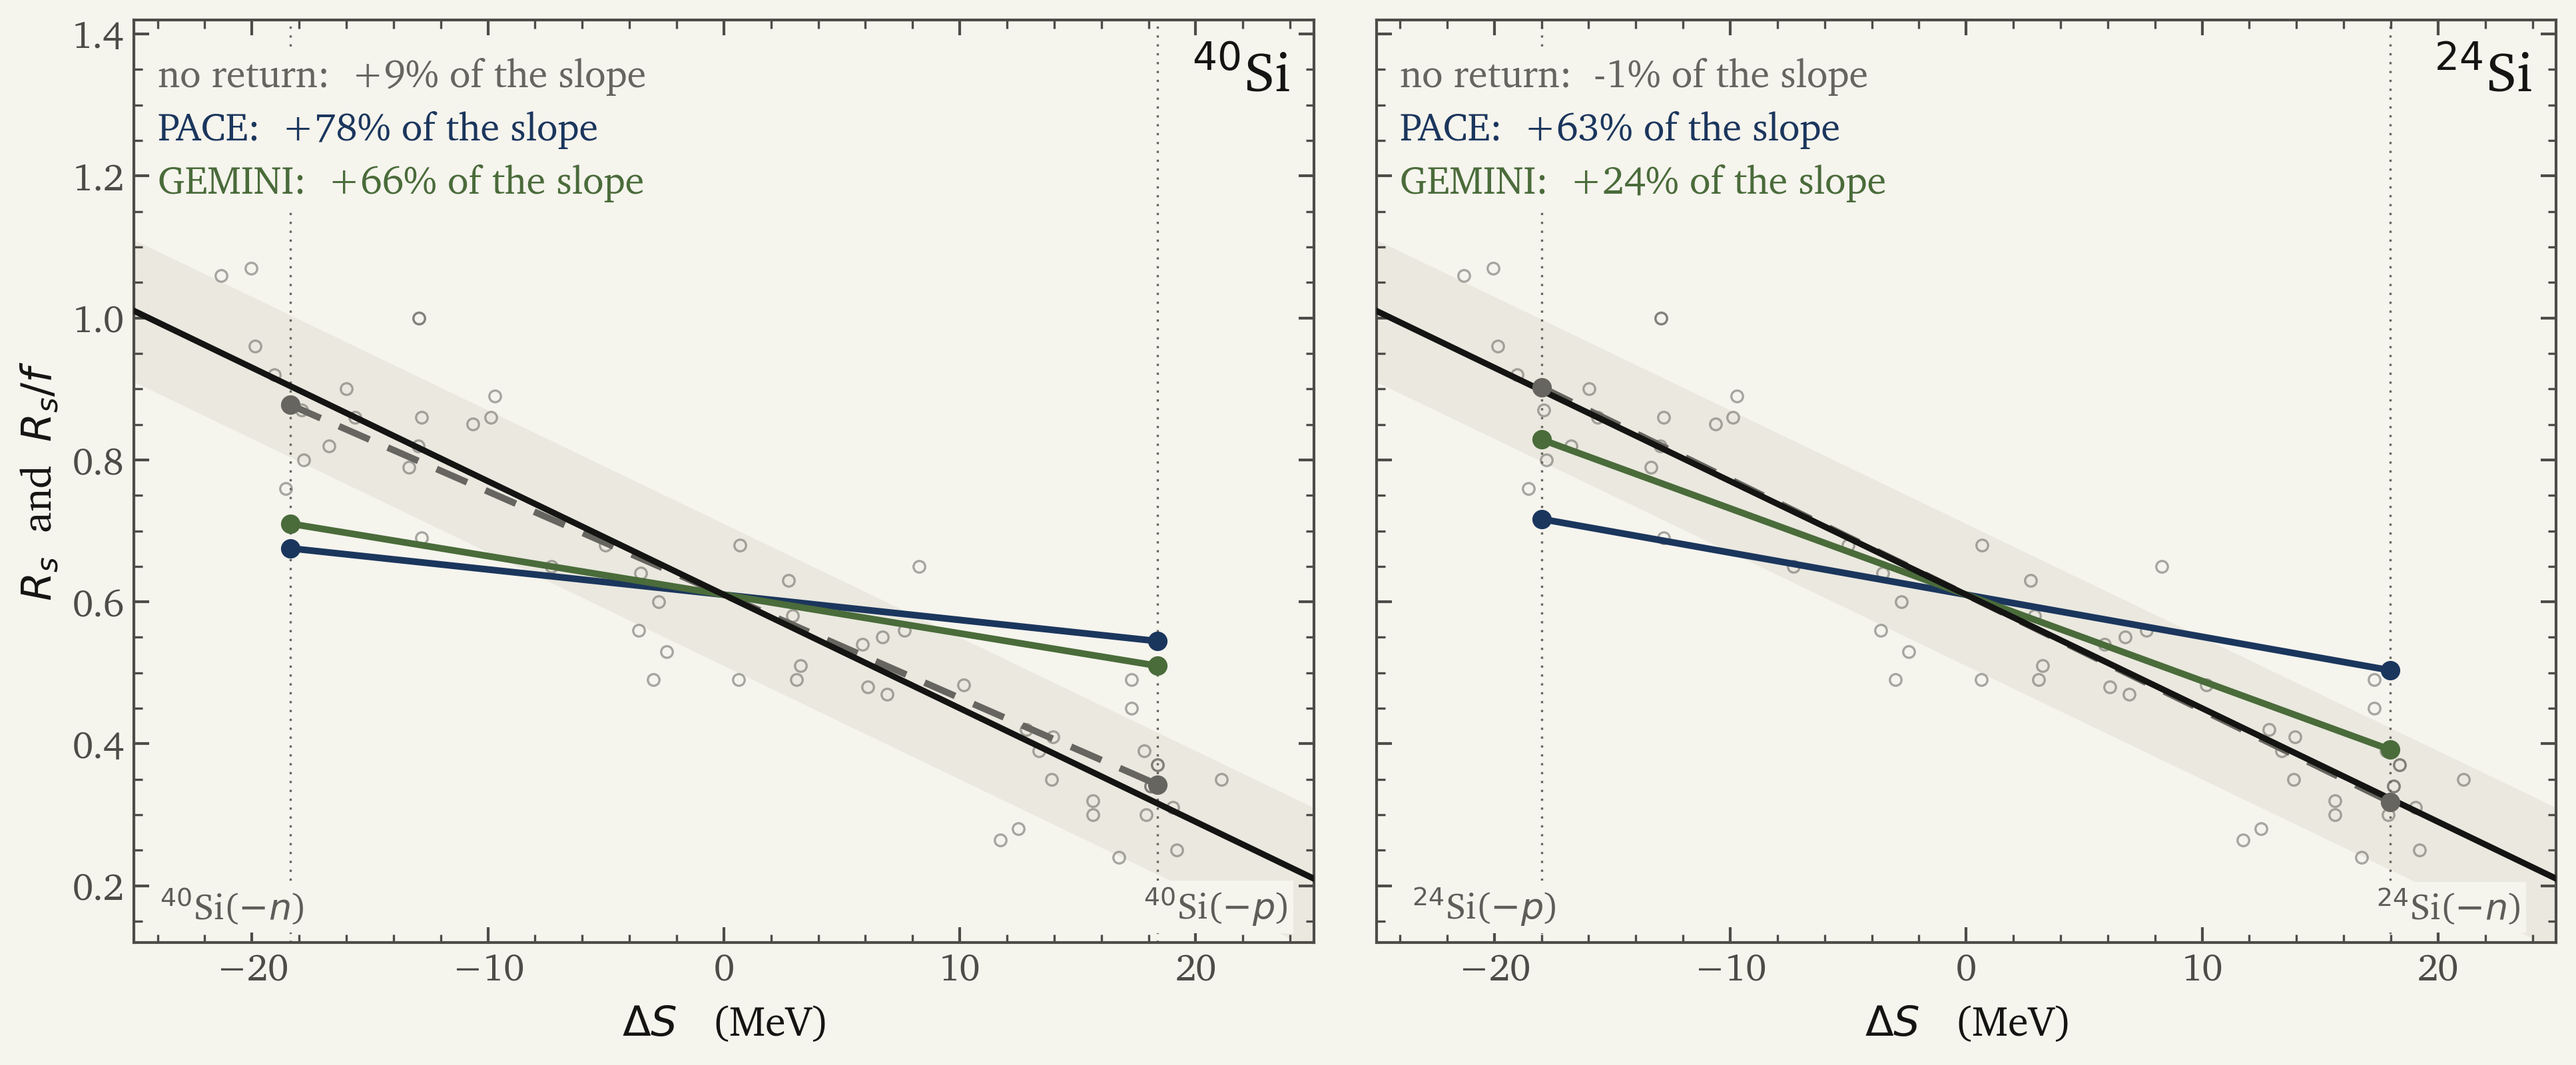
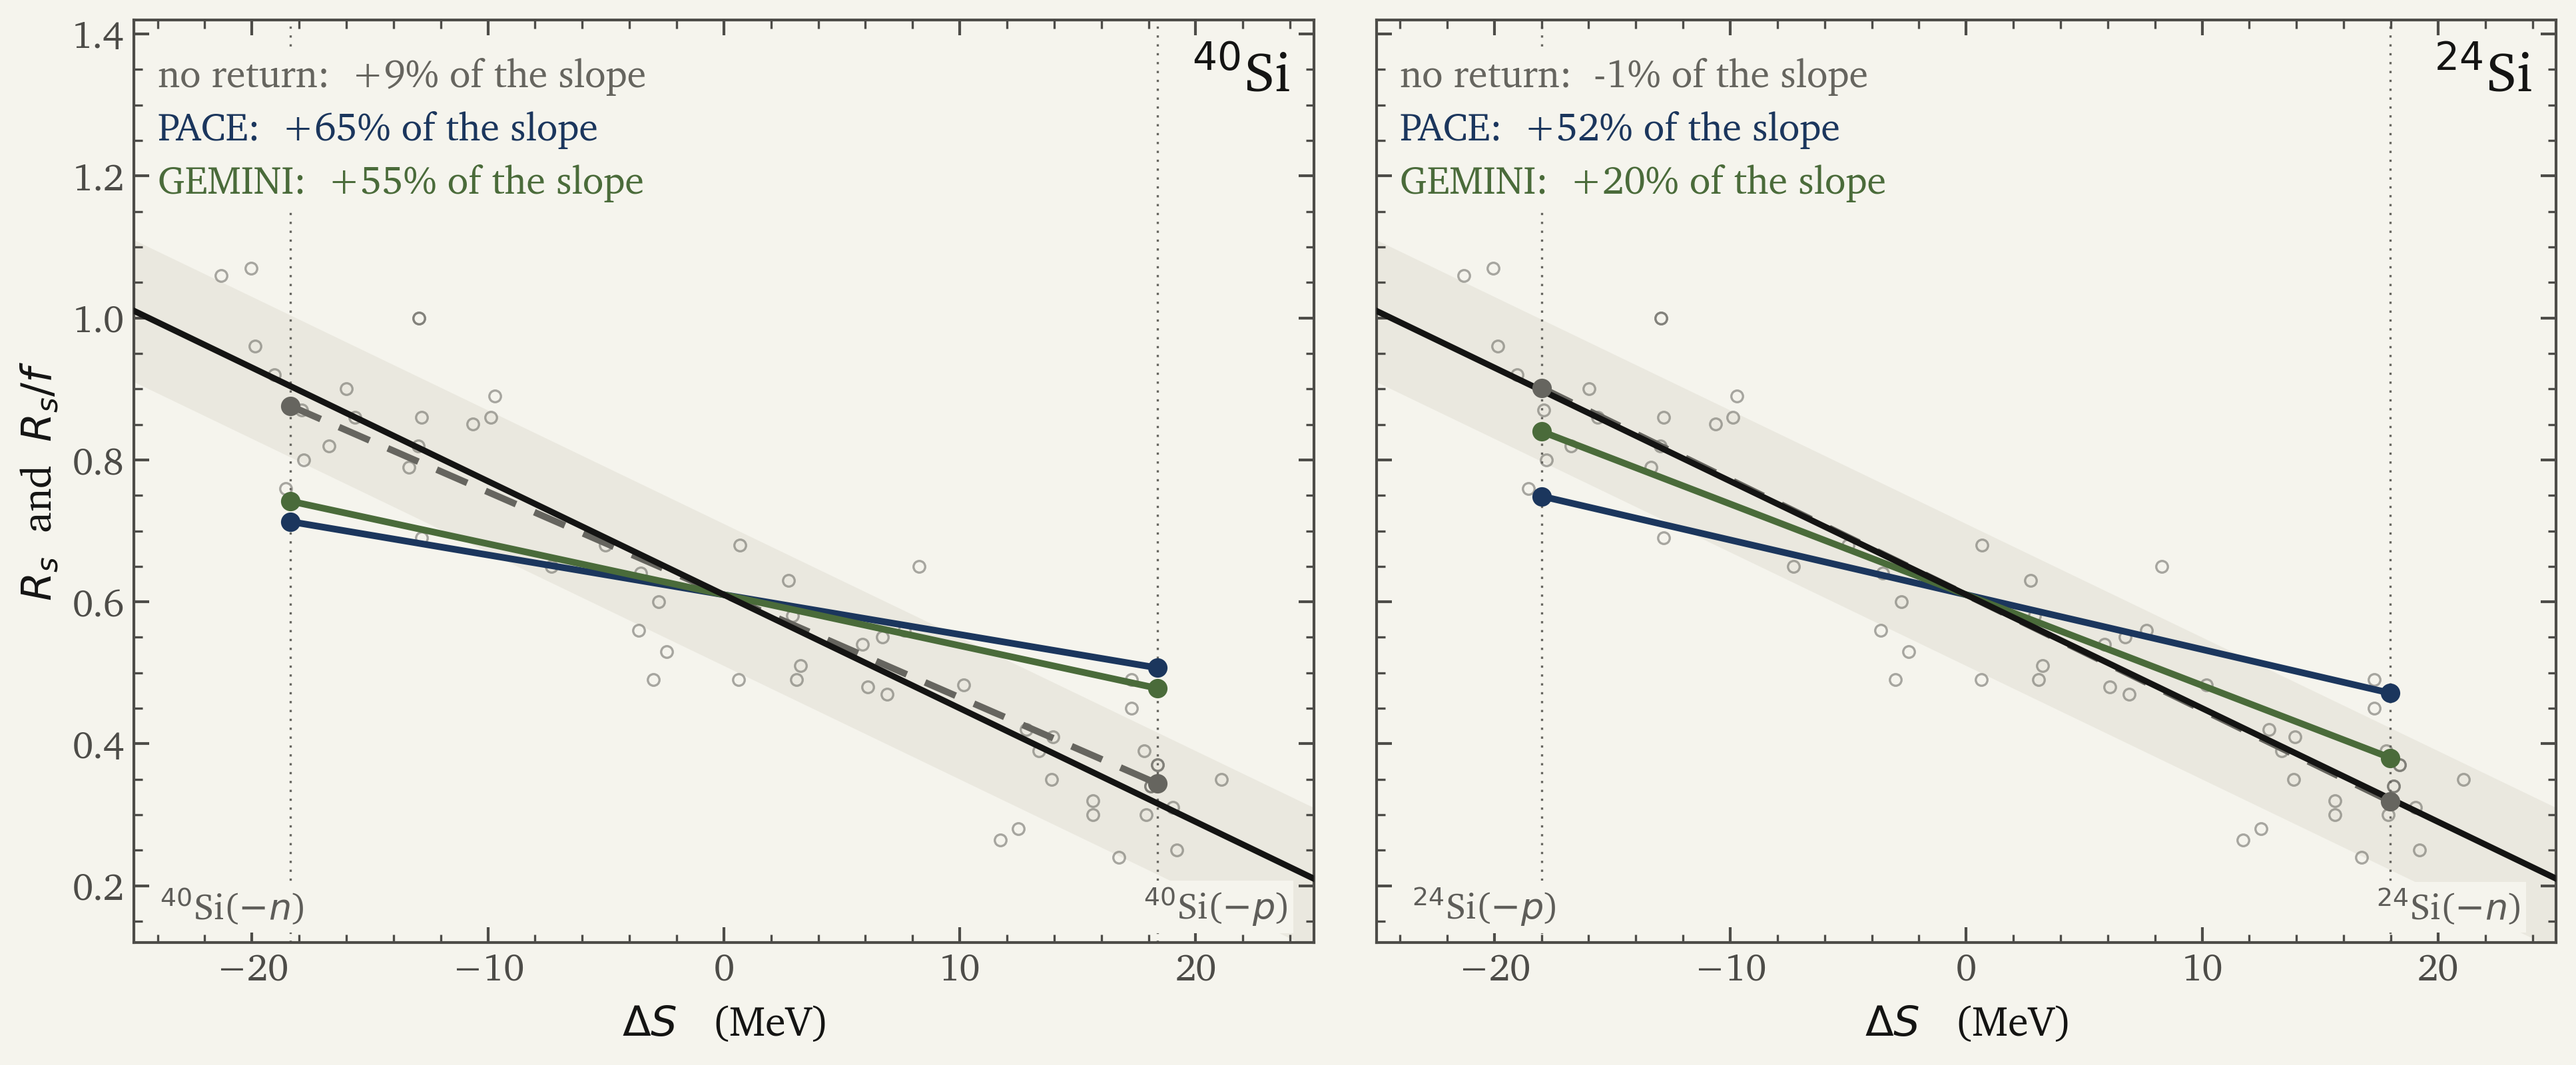
qfs-rb-2026: placement and diffraction from Phase 1b / f_dif; Safari hidden-mount fix
- exact-statement slide: P is target ground + residue bound; U^(nonadd) holds
  stripping core destruction, U^(pol) the diffractive one; yield is a Q-space split
- new diffraction slide (f_str vs f_dif per channel; M5 overstates by 15-20%)
- return slide and figure on the f_dif channel factors
- ExperimentScene: ResizeObserver before anything that can throw; glass chips
  installed only at nonzero size (Safari mounted the slide hidden, width 0)

diff --git a/qfs-rb-2026/components/ExperimentScene.vue b/qfs-rb-2026/components/ExperimentScene.vue
@@ -43,8 +43,15 @@ onMounted(async () => {
   key.shadow.mapSize.set(2048, 2048); Object.assign(key.shadow.camera, { left: -12, right: 12, top: 8, bottom: -8, near: 1, far: 40 })
   key.shadow.bias = -0.0004; key.shadow.normalBias = 0.02; key.shadow.radius = 6; scene.add(key)
 
-  const cam = new THREE.PerspectiveCamera(28, W / H, 0.1, 200)
+  const cam = new THREE.PerspectiveCamera(28, W > 0 ? W / H : 16 / 9, 0.1, 200)
   cam.position.set(2.3, 3.8, 12.2); cam.lookAt(2.2, 0.85, 0)
+  // Registered before anything that can throw. A slide pre-mounted while hidden (Safari, reached by paging)
+  // has clientWidth 0 here; the observer fixes the size, the aspect and the glass chips once it is shown.
+  ro = new ResizeObserver(() => {
+    const w = el.clientWidth; if (w === 0) return
+    renderer.setSize(w, props.height); cam.aspect = w / props.height; cam.updateProjectionMatrix(); installGlass()
+  })
+  ro.observe(el)
 
   const phys = (color, o = {}) => new THREE.MeshPhysicalMaterial({ color, roughness: 0.4, metalness: 0.0, ...o })
   const M = {
@@ -280,19 +287,23 @@ onMounted(async () => {
   }
   loop()
 
-  // liquid-glass chips: one displacement map per label, generated at its rendered size
   await nextTick()
-  Object.entries(L).forEach(([k, r]) => {
-    const e = r.value; if (!e) return
-    const { width, height } = e.getBoundingClientRect()
-    const id = `lg-${uid}-${k}`
-    installGlassFilter({ id, width, height, radius: Math.min(14, height / 2), bevel: 8, scale: 8 })
-    e.style.setProperty('--glass-url', `url(#${id})`)
-  })
-
-  ro = new ResizeObserver(() => { const w = el.clientWidth; renderer.setSize(w, props.height); cam.aspect = w / props.height; cam.updateProjectionMatrix() })
-  ro.observe(el)
+  installGlass()
 })
+// liquid-glass chips: one displacement map per label, generated at its rendered size. Skipped while the label has
+// no size (hidden slide) and retried from the resize observer; a failure on one chip leaves it plain blur, no more.
+const glassDone = new Set()
+function installGlass() {
+  Object.entries(L).forEach(([k, r]) => {
+    const e = r.value; if (!e || glassDone.has(k)) return
+    const { width, height } = e.getBoundingClientRect(); if (width < 1 || height < 1) return
+    const id = `lg-${uid}-${k}`
+    try {
+      installGlassFilter({ id, width, height, radius: Math.min(14, height / 2), bevel: 8, scale: 8 })
+      e.style.setProperty('--glass-url', `url(#${id})`); glassDone.add(k)
+    } catch (err) { console.warn('glass chip', k, err) }
+  })
+}
 onBeforeUnmount(() => {
   cancelAnimationFrame(raf); ro && ro.disconnect(); pmrem && pmrem.dispose(); releaseRenderer(renderer)
   Object.keys(L).forEach((k) => document.getElementById(`lg-${uid}-${k}`)?.closest('svg')?.remove())

diff --git a/qfs-rb-2026/figures/make_rs_return.py b/qfs-rb-2026/figures/make_rs_return.py
@@ -5,7 +5,8 @@ QFS-RB 2026, "R_s with the compound-nucleus return".
 Claim: under M1 the correction tilts the Delta S trend of both pairs toward flat once the
 compound-nucleus return is included; without it 24Si barely moves.
 
-Data: threebodyreaction calc/plan_d/D3_results.md, sections D3.4 and D3.5, MR07a only.
+Data: threebodyreaction calc/plan_d/D3_results.md, f_dif section (2026-09-24), MR07a only: channel factors
+f = eta f_str + (1 - eta) f_dif with diffraction computed, not scaled like stripping (GR23's M5).
 Line, band: Tostevin and Gade, PRC 103, 054610 (2021), Eq. (2) and the half-width 0.1 scatter.
 Points: tg2021_points.dat (vector-operator extraction, validated; no error bars).
 Chords: R_s/f at the pair's two channels, anchored at Delta S = 0 because only the tilt is the claim.
@@ -15,9 +16,9 @@ import matplotlib.pyplot as plt
 from kami_style import *
 
 R0, M0, HALF = 0.61, -0.016, 0.10
-SYS = {r"$^{40}$Si": dict(ds=18.38, fd=0.3062, fw={"no return": 0.5770, "PACE": 0.7777, "GEMINI": 0.7338},
+SYS = {r"$^{40}$Si": dict(ds=18.38, fd=0.3366, fw={"no return": 0.6146, "PACE": 0.7898, "GEMINI": 0.7519},
                             lab=(r"$-n$", r"$-p$")),
-       r"$^{24}$Si": dict(ds=17.984, fd=0.3594, fw={"no return": 0.6063, "PACE": 0.8089, "GEMINI": 0.6731},
+       r"$^{24}$Si": dict(ds=17.984, fd=0.3918, fw={"no return": 0.6390, "PACE": 0.8162, "GEMINI": 0.7001},
                             lab=(r"$-p$", r"$-n$"))}
 STY = {"no return": (STONE, (0, (5, 3))), "PACE": (INK_BLUE, "-"), "GEMINI": (MOSS, "-")}
 P = np.genfromtxt("tg2021_points.dat", dtype=None, encoding="utf-8", names=["ds", "rs", "marker", "series"])

diff --git a/qfs-rb-2026/slides.md b/qfs-rb-2026/slides.md
@@ -228,21 +228,27 @@ H<sub>eff</sub> = H<sub>3</sub><sup>(0)</sup>
 </div>
 
 <div class="text-center mt-3" style="color: var(--stone);">
-exact projection onto what is measured: the target excited, the residue bound
+exact projection: target in its ground state, residue bound; stripping leaves through target excitation
 </div>
 
-<div class="grid grid-cols-2 gap-8 mt-10">
+<div class="grid grid-cols-2 gap-8 mt-8">
 <div class="kami-card">
 <span class="ui-label">U<sup>(nonadd)</sup></span><br>
-what the target does to the <b>pair</b> beyond what it does to each separately
+eliminates <b>target excitation</b>. Inside it, after x has excited the target, the x-b coupling
+still acts: this is where b is disturbed <b>in stripping</b>.
 </div>
 <div class="kami-card">
 <span class="ui-label">U<sup>(pol)</sup></span><br>
-what the pair does to <b>itself</b> once b may leave its ground state
+eliminates <b>excited or broken b</b> with the target in its ground state: the projectile's own
+structure, and b disturbed <b>in diffraction</b>.
 </div>
 </div>
 
-<div class="takeaway mt-8">
+<div class="text-center mt-5" style="color: var(--stone);">
+Neither operator's absorption is the measured yield: the stripped flux splits afterwards into b bound and b lost.
+</div>
+
+<div class="takeaway mt-6">
 Standard practice keeps H<sub>3</sub><sup>(0)</sup> and deletes both. That deletion <b>is</b> the spectator assumption.
 </div>
 
@@ -322,6 +328,44 @@ Six out of six, over three independent absorptions including a microscopic one. 
 
 ---
 
+# Diffraction: b is lost there too, but less
+
+<div class="grid grid-cols-5 gap-8 mt-6">
+<div class="col-span-3">
+
+| channel | f, stripping | f, diffraction |
+|---|---|---|
+| <sup>40</sup>Si deep (&minus;p) | 0.23 to 0.33 | 0.43 to 0.49 |
+| <sup>40</sup>Si weak (&minus;n) | 0.58 to 0.68 | 0.74 to 0.77 |
+| <sup>24</sup>Si deep (&minus;n) | 0.32 to 0.46 | 0.52 to 0.58 |
+| <sup>24</sup>Si weak (&minus;p) | 0.56 to 0.65 | 0.75 to 0.76 |
+
+<div class="fig-caption">MR07a, MR07b and WLH absorptions; no return.</div>
+
+</div>
+<div class="col-span-2 pt-2">
+
+<div class="box-idea">
+Same x-b coupling, now with the target left in its ground state: it enters through U<sup>(pol)</sup>.
+</div>
+
+<div class="box-evidence mt-4">
+Counting stripping alone loses <b>half</b> of the effect or more.
+</div>
+
+<div class="box-gap mt-4">
+Scaling diffraction like stripping, as in the 2023 calculation, overstates the flattening by <b>15 to 20%</b>.
+</div>
+
+</div>
+</div>
+
+<div class="takeaway mt-6">
+Diffraction included, no return: <b>+9% to +61%</b> of the slope in <sup>40</sup>Si (WLH +33%).
+</div>
+
+---
+
 # The halo limit: b becomes a spectator again
 
 <div class="grid grid-cols-5 gap-7 mt-2">
@@ -384,8 +428,8 @@ decides how much of the trend this effect carries.
 <img src="./figures/rs-return.png" class="kami-img" style="height: 20rem;" />
 
 <div class="takeaway mt-4">
-With the return: <b>+24% to +80%</b> of the slope (24Si), +66% to +78% (40Si); one absorption over-corrects
-40Si and reverses the slope. The direction comes from the framework; the size rests on the x-b absorption and on the return.
+Shown for MR07a. Over both MR07 sets: <b>+20% to +66%</b> in <sup>24</sup>Si; MR07b over-corrects <sup>40</sup>Si (+105% to +114%).
+The direction comes from the framework; the size rests on the x-b absorption and the return.
 </div>
 
 ---
@@ -408,8 +452,7 @@ With the return: <b>+24% to +80%</b> of the slope (24Si), +66% to +78% (40Si); o
 </div>
 
 <div class="takeaway mt-5">
-Same operators and potentials, two physical pictures, 40Si without the return. The disagreement is
-<b>which picture</b>, not which numbers; the framework derives picture A.
+Same operators, potentials and bookkeeping (<sup>40</sup>Si, no return). They differ in <b>which picture</b>, not which numbers; the framework derives A.
 </div>
 
 ---
@@ -431,7 +474,7 @@ Same operators and potentials, two physical pictures, 40Si without the return. T
 </div>
 <div class="kami-card">
 <span class="tag">4</span> <b class="ml-2"><sup>12</sup>C, the third pair</b>
-<div class="mt-2 text-sm">and which operator, U<sup>(nonadd)</sup> or U<sup>(pol)</sup>, carries it.</div>
+<div class="mt-2 text-sm">Near &Delta;S = 0, where the two channels meet.</div>
 </div>
 </div>
 
